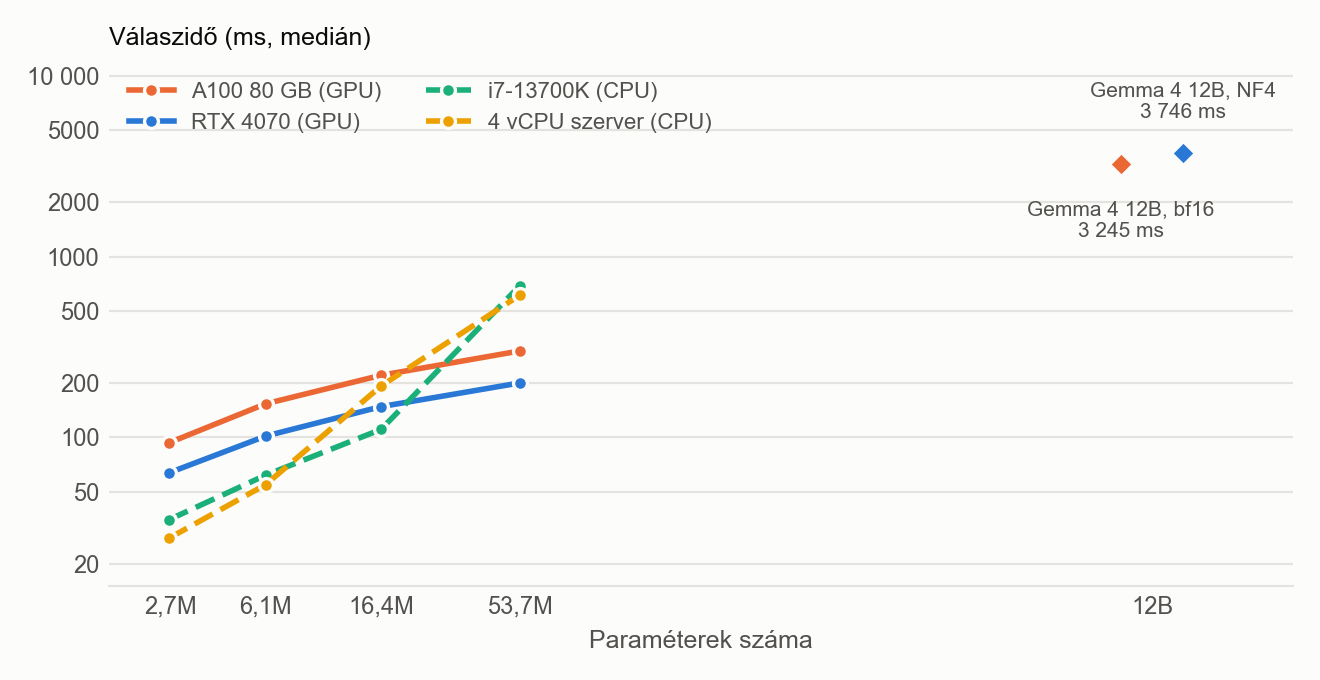
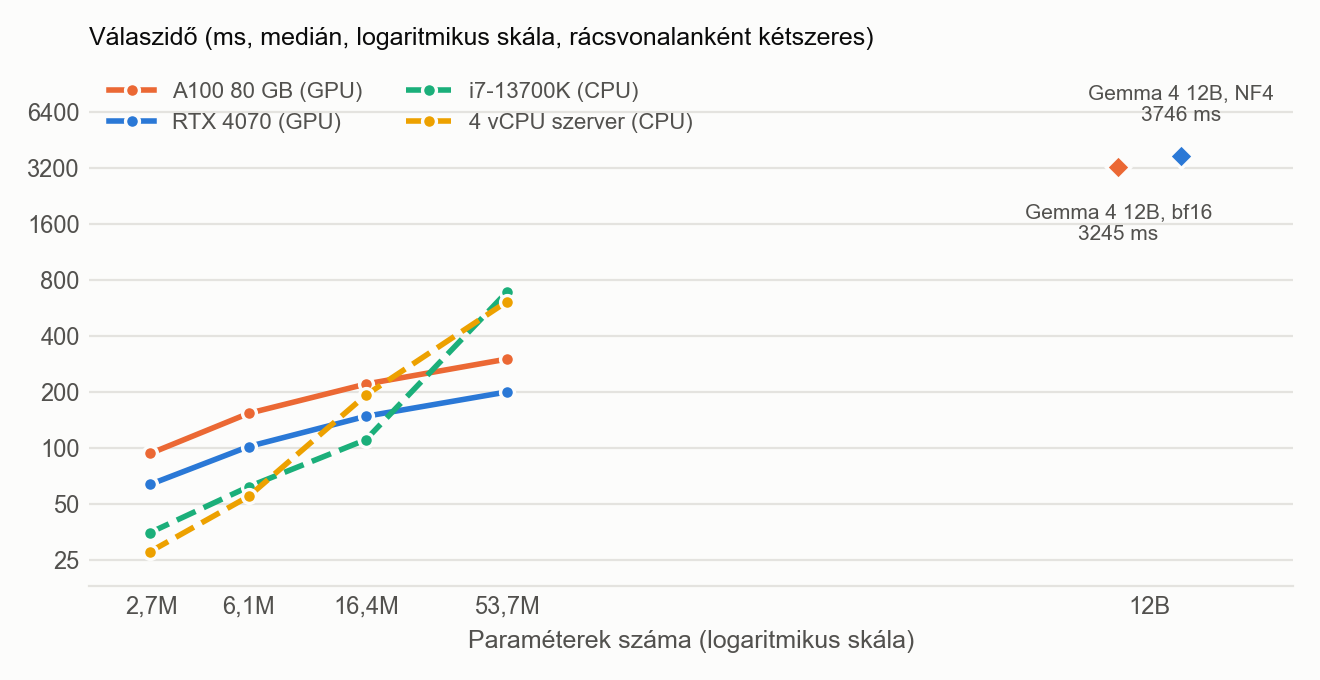
Figure 20 (thesis 9.10): time gridlines double at each step (25 ... 6400) so equal gaps mean equal ratios; both axes say they are logarithmic; Gemma labels without a space in 4-digit numbers

diff --git a/thesis_work/grafikonok/plot_20_speed_curve.py b/thesis_work/grafikonok/plot_20_speed_curve.py
@@ -1,7 +1,8 @@
 """Thesis figure (chapter 9, section 9.6): the math tutor's reply time against model size on four machines. The four
 students of the size sweep (2.7M / 6.1M / 16.4M / 53.7M, 2 / 4 / 6 / 8 layers) as one line per machine, Gemma 4 12B
 as its own point on the two GPUs (bf16 on the A100, 4-bit NF4 on the RTX 4070: it fits there only so). Both axes
-logarithmic. Median time per reply (input text to reply text, batch 1, greedy), 80 test replies x 3 timed rounds after
+logarithmic; the time gridlines double at each step (25, 50, ..., 6400), so equal gaps mean equal ratios (user,
+2026-11-09: with 20 / 50 / 100 / 200 ticks the gap 20-50 looked wider than 1000-2000). Median time per reply (input text to reply text, batch 1, greedy), 80 test replies x 3 timed rounds after
 an untimed warm-up pass. Data: experiments/results/speed.csv (experiments/speed_benchmark.py, speed_merge.py).
 Run: python thesis_work/grafikonok/plot_20_speed_curve.py (redraws the PNG next to this file)."""
 import csv
@@ -41,7 +42,7 @@ def find(hardware, device, model, kind="math"):
 
 
 def milliseconds(value):
-    return f"{value:,.0f}".replace(",", " ") + " ms" if value < 10000 else f"{value / 1000:.1f} s".replace(".", ",")
+    return f"{value:.0f} ms" if value < 10000 else f"{value / 1000:.1f} s".replace(".", ",")
 
 
 plt.rcParams.update({"font.family": "Arial", "font.size": 9})
@@ -67,16 +68,18 @@ for hardware, device, label, color, style in MACHINES:
 axis.set_xscale("log")
 axis.set_yscale("log")
 axis.set_xlim(1.6e6, 4e10)
-axis.set_ylim(15, 12000)
+axis.set_ylim(18, 12000)
 size_ticks = [2.7e6, 6.1e6, 16.4e6, 53.7e6, 12e9]
 axis.set_xticks(size_ticks)
 axis.set_xticklabels(["2,7M", "6,1M", "16,4M", "53,7M", "12B"])
 axis.xaxis.set_minor_locator(matplotlib.ticker.NullLocator())
-axis.set_yticks([20, 50, 100, 200, 500, 1000, 2000, 5000, 10000])
-axis.set_yticklabels(["20", "50", "100", "200", "500", "1000", "2000", "5000", "10 000"])
+time_ticks = [25, 50, 100, 200, 400, 800, 1600, 3200, 6400]
+axis.set_yticks(time_ticks)
+axis.set_yticklabels([str(tick) for tick in time_ticks])
 axis.yaxis.set_minor_locator(matplotlib.ticker.NullLocator())
-axis.set_title("Válaszidő (ms, medián)", color=TEXT_PRIMARY, fontsize=9, loc="left")
-axis.set_xlabel("Paraméterek száma", color=TEXT_SECONDARY, fontsize=9)
+axis.set_title("Válaszidő (ms, medián, logaritmikus skála, rácsvonalanként kétszeres)", color=TEXT_PRIMARY,
+               fontsize=9, loc="left")
+axis.set_xlabel("Paraméterek száma (logaritmikus skála)", color=TEXT_SECONDARY, fontsize=9)
 for spine in ("top", "right", "left"):
     axis.spines[spine].set_visible(False)
 axis.spines["bottom"].set_color(GRID)
